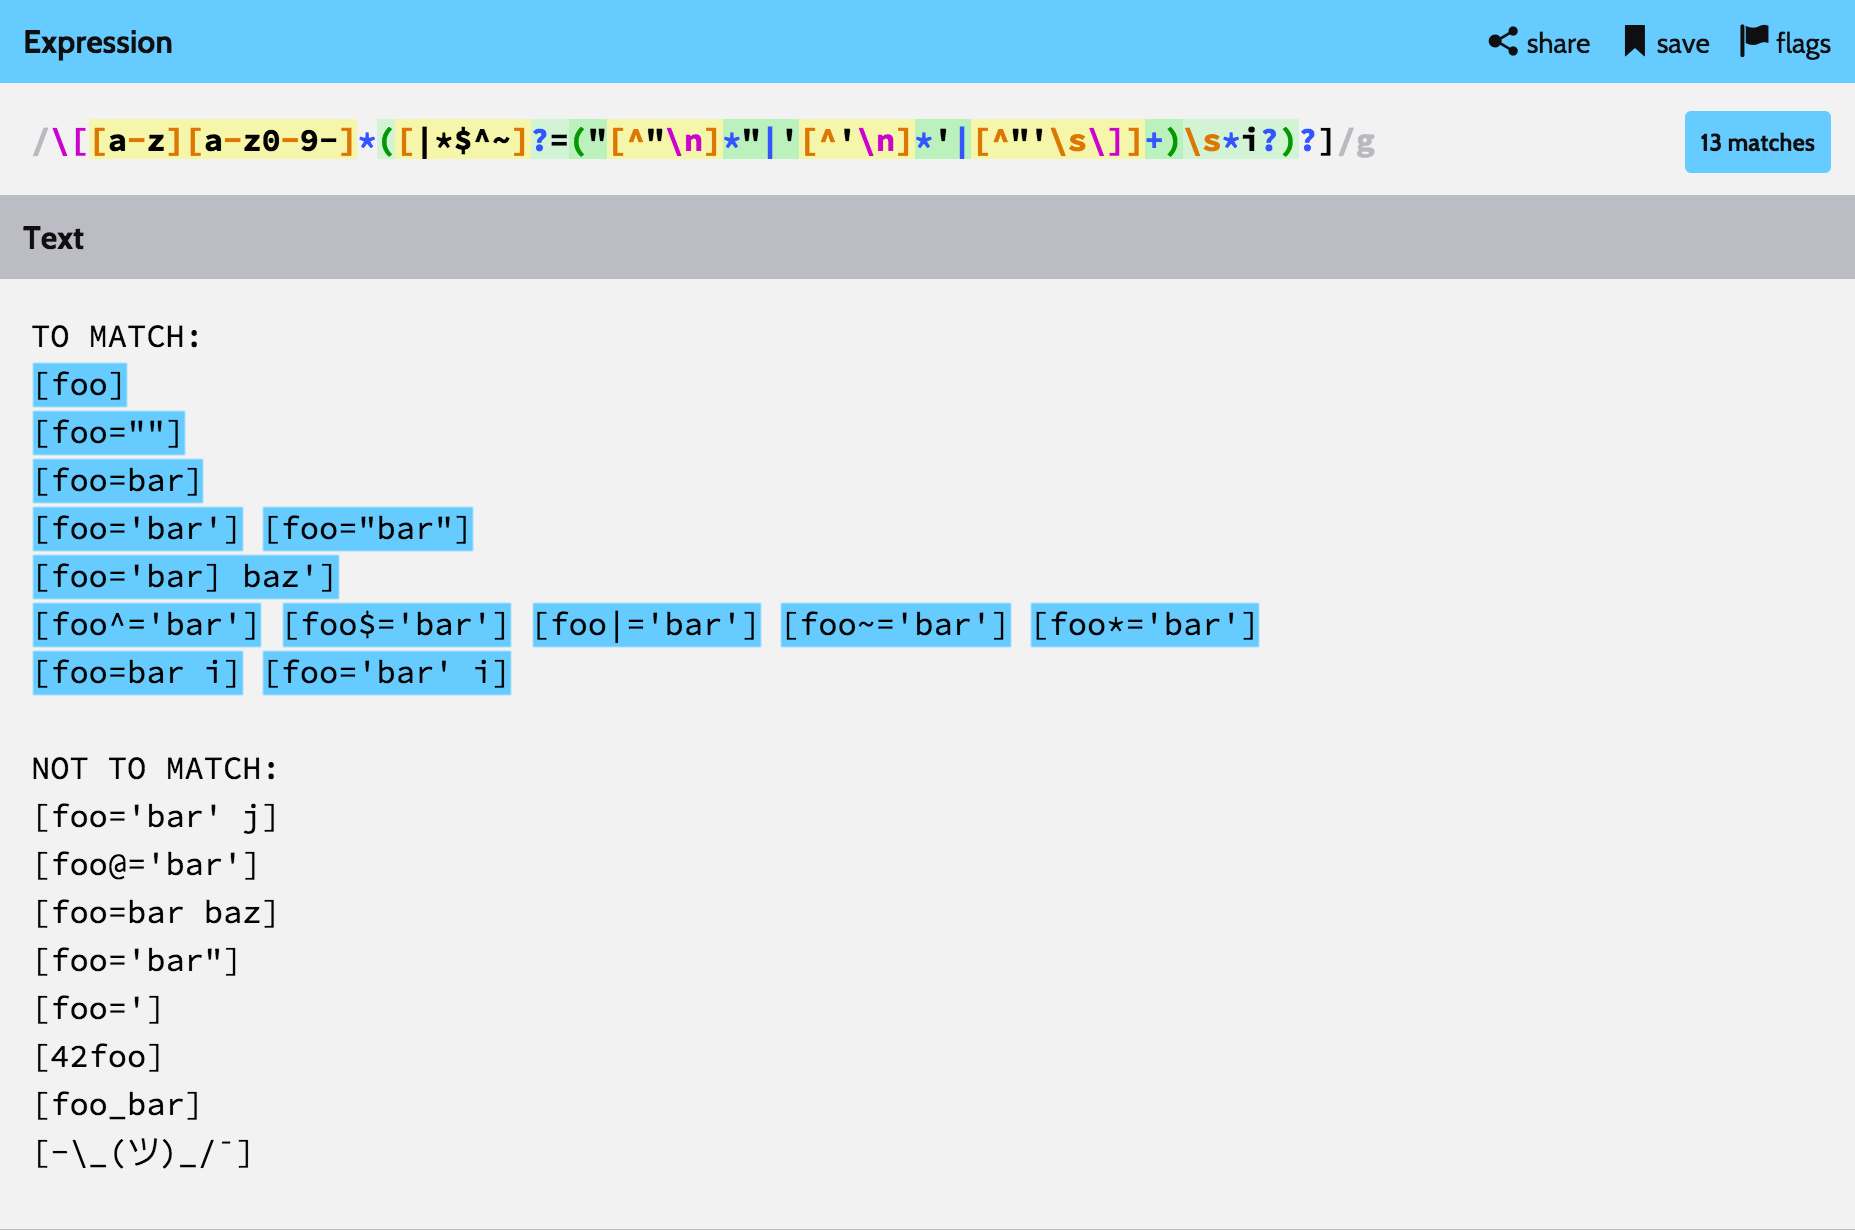
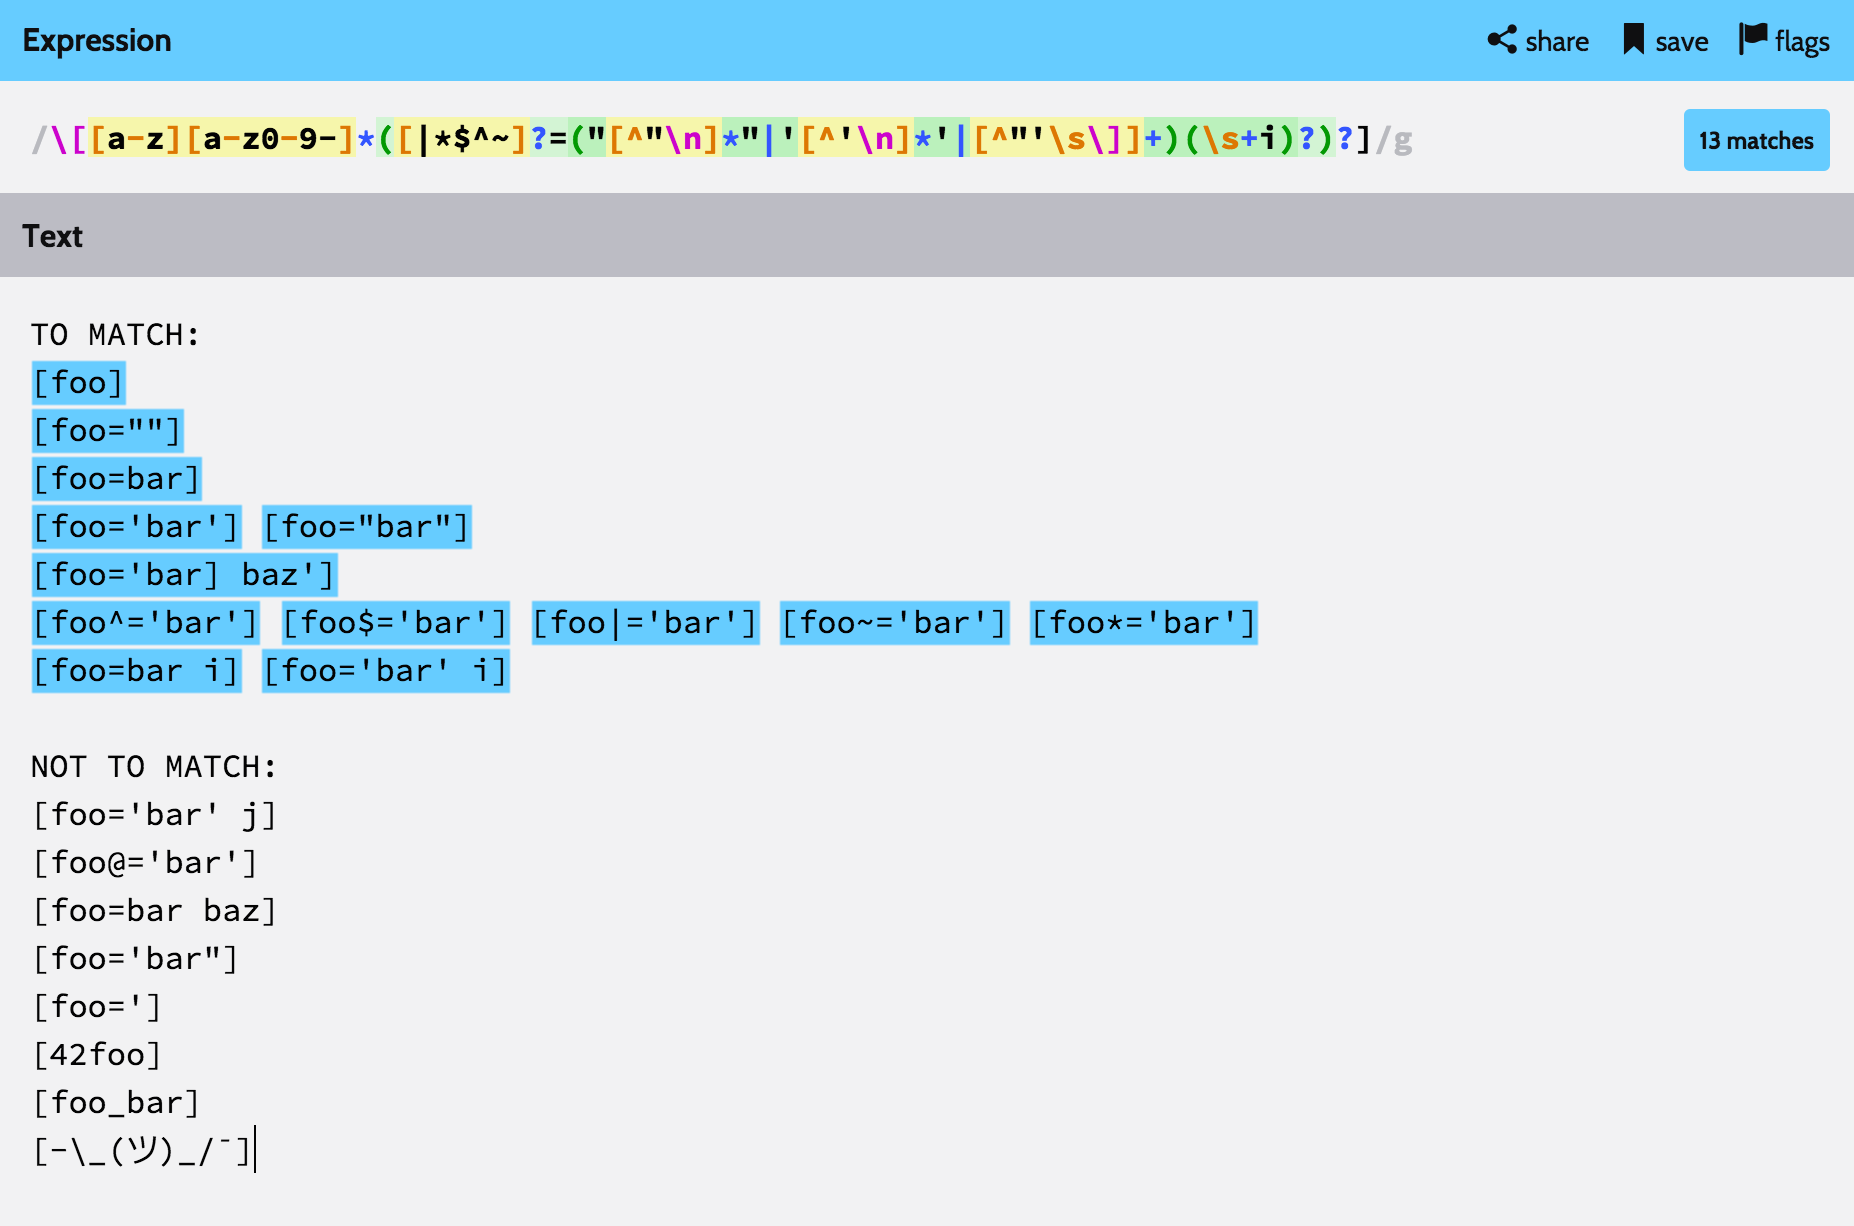
Fixed an issue with the case sentivity flag

diff --git a/_posts/2015-08-19-learning-regular-expressions-the-practical-way.md b/_posts/2015-08-19-learning-regular-expressions-the-practical-way.md
@@ -45,7 +45,7 @@ Everything started from [a tweet](https://twitter.com/gregwhitworth/status/62721
 
 It does look illegible. As most regular expressions. I started discussing with Greg about what he was trying to achieve and learnt he wanted to find CSS attribute selectors in a document. It seemed like a fun challenge so I spent a few minutes on it and came up with this:
 
-<pre class="language-regex"><code>\[[a-z][a-z0-9-]*([|*$^~]?=("[^"\n]*"|'[^'\n]*'|[^"'\s\]]+)\s*i?)?]</code></pre>
+<pre class="language-regex"><code>\[[a-z][a-z0-9-]*([|*$^~]?=("[^"\n]*"|'[^'\n]*'|[^"'\s\]]+)(\s+i)?)?]</code></pre>
 
 In this article, we will see how to come up with such a monster, and what are the required steps to get there. But first, let’s be clear on what we want to match: attribute selectors. These are some examples of selectors we want to match:
 
@@ -199,12 +199,12 @@ Which we can now incorporate in our expression:
 
 [CSS Selectors Level 4](https://drafts.csswg.org/selectors/#attribute-case) introduces a flag to attribute selectors to discard case-sensitivity. When present, this option tells the browser to match no matter whether the case is matching the requested one.
 
-This flag (noted `i`) must be present after at least 1 space right before the closing square bracket. Testing for it in our regular expression is actually super easy using `\s*i`.
+This flag (noted `i`) must be present after at least 1 space right before the closing square bracket. Testing for it in our regular expression is actually super easy using `\s+i`.
 
-<pre class="language-regex"><code>\[[a-z][a-z0-9-]*([|*$^~]?=("[^"\n]*"|'[^'\n]*'|[^"'\s\]]+)\s*i?)?]</code></pre>
+<pre class="language-regex"><code>\[[a-z][a-z0-9-]*([|*$^~]?=("[^"\n]*"|'[^'\n]*'|[^"'\s\]]+)(\s+i)?)?]</code></pre>
 
 <figure class="figure">
-  <img src="/images/learning-regular-expressions/08.png" alt="\[[a-z][a-z0-9-]*([|*$^~]?=(&quot;[^&quot;\n]*&quot;|'[^'\n]*'|[^&quot;'\s\]]+)\s*i?)?]" />
+  <img src="/images/learning-regular-expressions/08.png" alt="\[[a-z][a-z0-9-]*([|*$^~]?=(&quot;[^&quot;\n]*&quot;|'[^'\n]*'|[^&quot;'\s\]]+)(\s+i)?)?]" />
   <figcaption>You can play with this regular expression on <a href="http://www.regexr.com/3bk6f" target="_blank">Regexr</a></figcaption>
 </figure>
 
@@ -218,13 +218,13 @@ Capturing content as part of a regular expression is made with parentheses (`(..
 
 You might be confused as we already used parentheses in our expression but not for capturing. We used them to group tokens together. This kind of behaviour is what makes the language of regular expressions difficult to grasp: it is not regular, and some characters have different meanings depending on their position or the context they are used in.
 
-To use parentheses as a grouping feature without capturing anything, it is needed to start their content with a question mark (`?`) directly followed by a colon (`:`), like this: `(?: ... )`. This intimates the engine not to capture what is being matched inside the parentheses. We should update our expression to avoid capturing the equal part:
+To use parentheses as a grouping feature without capturing anything, it is needed to start their content with a question mark (`?`) directly followed by a colon (`:`), like this: `(?: ... )`. This intimates the engine not to capture what is being matched inside the parentheses. We should update our expression to avoid capturing the equal part (as well as the case-sentivity flag):
 
-<pre class="language-regex"><code>\[[a-z][a-z0-9-]*(?:[|*$^~]?=("[^"\n]*"|'[^'\n]*'|[^"'\s\]]+)\s*i?)?]</code></pre>
+<pre class="language-regex"><code>\[[a-z][a-z0-9-]*(?:[|*$^~]?=("[^"\n]*"|'[^'\n]*'|[^"'\s\]]+)(?:\s+i)?)?]</code></pre>
 
-As you can see, we added `?:` right after the first opening parenthese (`(`) so we do not capture what is being matched. On the other hand, the second opening parenthese, after the equal sign, is capturing the attribute value. Which could be desired! Now, if we want to capture the attribute name as well, we only have to wrap the relevant part of the regex in parentheses:
+As you can see, we added `?:` right after the first opening parenthese so we do not capture what is being matched. On the other hand, the second opening parenthese, after the equal sign, is capturing the attribute value. Which could be desired! Now, if we want to capture the attribute name as well, we only have to wrap the relevant part of the regex in parentheses:
 
-<pre class="language-regex"><code>\[([a-z][a-z0-9-]*)(?:[|*$^~]?=("[^"\n]*"|'[^'\n]*'|[^"'\s\]]+)\s*i?)?]</code></pre>
+<pre class="language-regex"><code>\[([a-z][a-z0-9-]*)(?:[|*$^~]?=("[^"\n]*"|'[^'\n]*'|[^"'\s\]]+)(?:\s+i)?)?]</code></pre>
 
 To make it easier to understand, consider this selector: `[href^="#"]`. When running the previous regular expression against it, we will capture 2 things:
 
@@ -232,7 +232,7 @@ To make it easier to understand, consider this selector: `[href^="#"]`. When run
 2. `"#"`: the attribute value
 
 <figure class="figure">
-  <img src="/images/learning-regular-expressions/09.png" alt="\[([a-z][a-z0-9-]*)(?:[|*$^~]?=(&quot;[^&quot;\n]*&quot;|'[^'\n]*'|[^&quot;'\s\]]+)\s*i?)?]" />
+  <img src="/images/learning-regular-expressions/09.png" alt="\[([a-z][a-z0-9-]*)(?:[|*$^~]?=(&quot;[^&quot;\n]*&quot;|'[^'\n]*'|[^&quot;'\s\]]+)(?:\s+i)?)?]" />
   <figcaption>We use the regular expression to both match and capture some content</figcaption>
 </figure>
 
